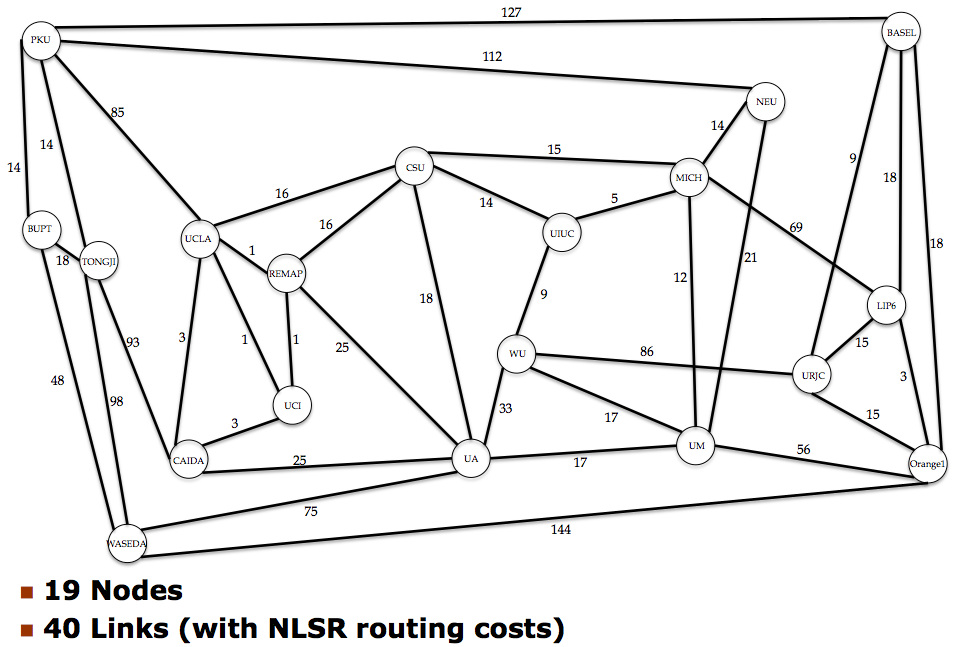
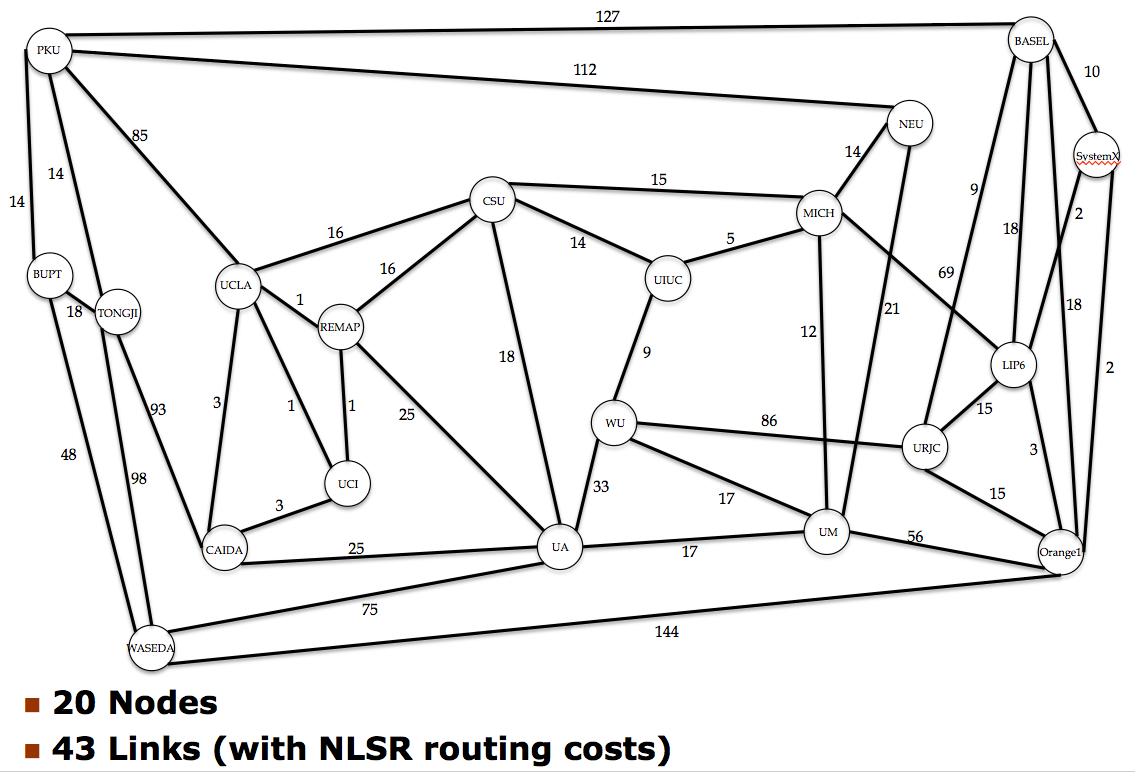
add systemX

diff --git a/ndn_prefix/tbs_ndnx.py b/ndn_prefix/tbs_ndnx.py
@@ -457,8 +457,8 @@ def gen_prefix_status_description():
 <font size="3" face="arial">Clock Skew Status: (As compared to UCLA Node's time: Green: < 5 secs off; Yellow: 5 <  > 30 secs; Red: > 30 seconds off) <br><br></font>
 <font size="3" face="arial">Notes on current (August 25, 2014) status: All Testbed nodes are running nfd public release version 0.2.0 <br></font>
 <font size="3" face="arial">Notes on current (October 17, 2014) status: NLSR is now running with validation turned on.<br></font>
-<font size="3" face="arial">Notes on current (October 17, 2014) status: Waseda University has joined the NDN Testbed. Their node, WASEDA, is up and running.<br></font>
-<font size="3" face="arial">Notes on current (October 29, 2014) status: We are installing an update to nfd and associated utilities. While this is in progress ndnmap.arl.wustl.edu may have periods of idleness..<br></font>
+<font size="3" face="arial">Notes on current (November 7, 2014) status: A new node at SystemX (Paris) is being installed.<br></font>
+<font size="3" face="arial">Notes on current (November 7, 2014) status: A new node at BYU (Provo Utah) will be installed soon.<br></font>
 <br>
 
 """
